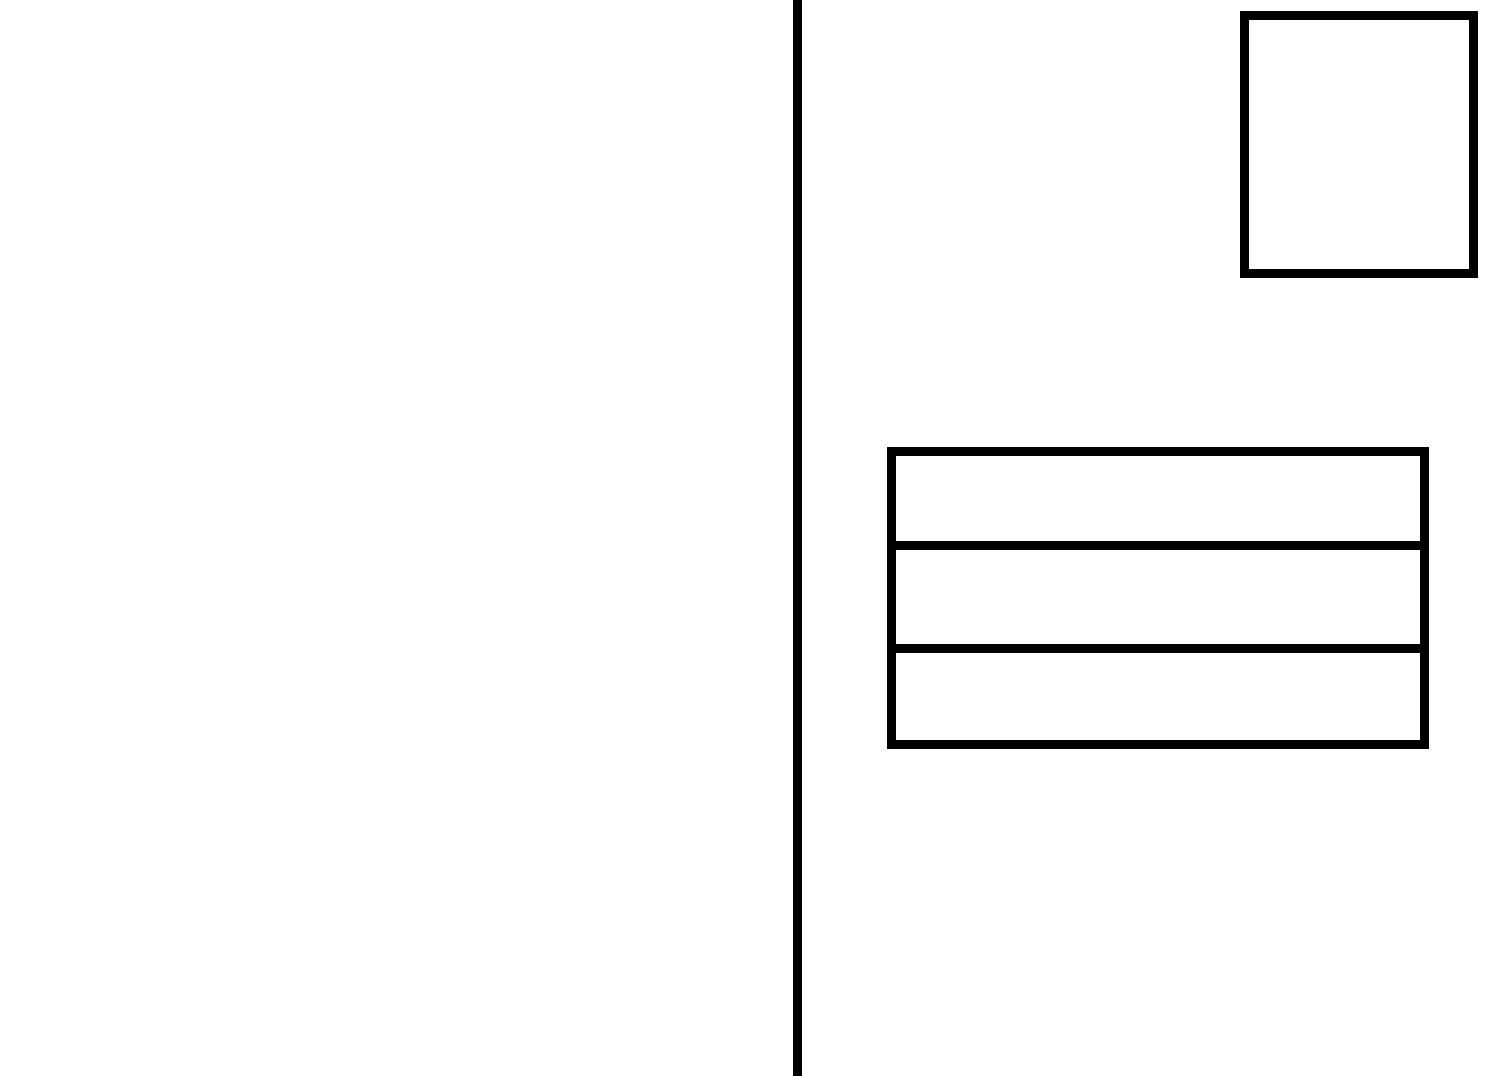
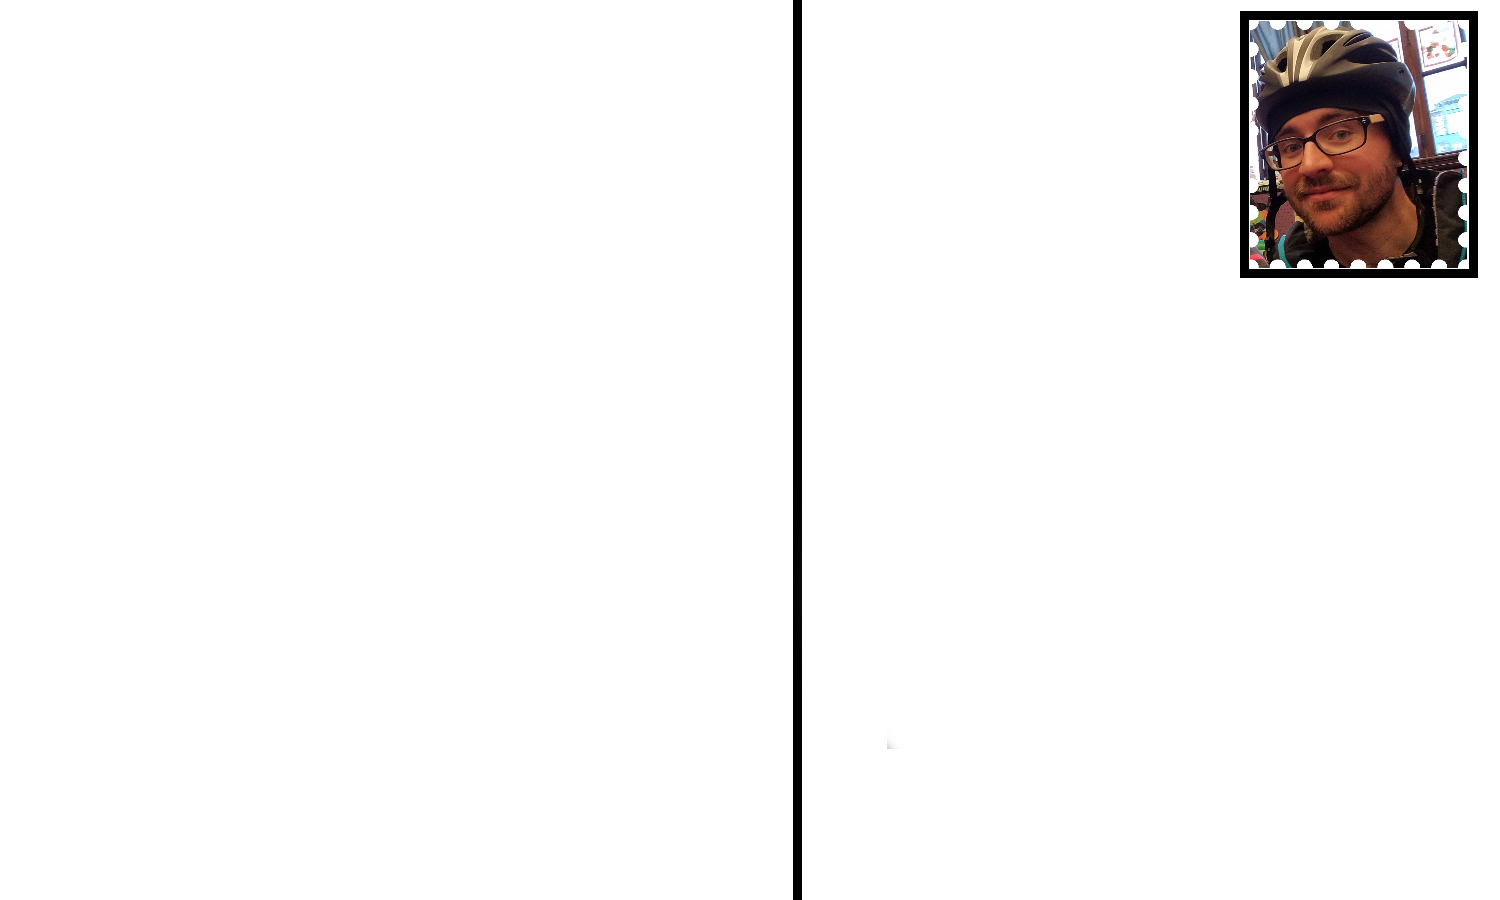
still working on the css

Changed region(s): [[0.5827, 0.4044, 0.9507, 0.7156], [0.828, 0.0, 1.0, 0.3111]]

diff --git a/styles.css b/styles.css
@@ -16,21 +16,23 @@ body {
 #backgroundborder {
     grid-column: 1 / 6;
     grid-row: 1 / 13;
-    flex: 1;
+    flex: 1 1;
+    justify-self: center;
 }
 
 #backgroundborder img {
     max-width: 100%;
-    max-height: 100%;
-    object-fit: cover;
+    max-height: 200vh;
     display: flex;
 }
 
-#contentcontainer {
+#mainbackground {
     background-color: #388fe2;
-    min-width: 600px;
+    min-width: 800px;
+    max-height: 200vh;
     grid-column: 2 / 5;
     grid-row: 1 / 13;
+    justify-self: center;
     z-index: -1;
 }
 
@@ -38,30 +40,63 @@ header {
     grid-column: 2 / 5;
     grid-row: 2 / 5;
     display: grid;
+    max-width:800px;
+    grid-template-columns: 1fr 1fr 1fr;
+    grid-template-rows: 1fr 1fr 1fr;
+    justify-self: center;
 }
 
 #headshot {
-    grid-column: 5 / 5;
-    grid-row: 2 / 2;
+    grid-column: 3 / 4;
+    grid-row: 1 / 2;
     max-width: 150px;
     display: flex;
+    z-index: 3;
+    justify-self: right;
+    opacity: .8;
 }
 
 header .pcmainimg {
-    grid-column: 2 / 5;
-    grid-row: 2 / 5;
-    max-width: 100%;
+    grid-column: 1 / 4;
+    grid-row: 1 / 4;
     object-fit: cover;
     display: flex;
+    justify-self: center;
+}
+
+header .pcbackground {
+    grid-column: 1 / 4;
+    grid-row: 1 / 4;
+    object-fit: cover;
+    display: flex;
+    z-index: 3;
+    opacity: .3;
+    justify-self: center;
+}
+
+header .postcard {
+    grid-column: 1 / 4;
+    grid-row: 1 / 4;
+    object-fit: cover;
+    display: flex;
+    z-index: 2;
+    opacity: .9;
+    justify-self: center;
+}
+
+header h1 {
+    grid-column: 1 / 3;
+    grid-row: 1 / 2;
+    z-index: 5;
+    margin: .5rem;
+    font-size: 1.75rem;
 }
 
 img {
     display: none;
+    max-width: 800px;
 }
 
-h1 {
-  /*this is the website title*/
-}
 
 nav {
   /*all nav items the same size/font*/

diff --git a/index.html b/index.html
@@ -12,17 +12,17 @@
 
   <body>
     <div id="gridcontainer">
-    <div id="backgroundborder">
-      <img src="assets/externalborder.png">
-    </div>
-    <div id="contentcontainer">
-    <header>
-      <h1>Sincerely,</h1>
+      <div id="backgroundborder">
+        <img id="externalborder" src="assets/externalborder.png">
+      </div>
+      <div id="mainbackground"></div>
+      <header>
+      <h1>Sincerely, C.Watley</h1>
       <nav>
         <div id="projects">Projects</div>
         <div id="contacts">Contact</div>
       </nav>
-      <img id="headshot" src="assets/headshot.png" alt="Personal Headshot">
+      <!--<img id="headshot" src="assets/headshot.png" alt="Personal Headshot">!-->
       <img class="pcbackground" src="assets/postcardBackground.png">
       <img class="pcmainimg" src="assets/6-26-11 032-PANO.jpg" alt="Split, Croatia">
       <img class="postcard" src="assets/Postcard overlay.png" alt="Postcard overlay">
@@ -73,7 +73,6 @@
       </div>
       <div id="contactbarbottomimg"><img id="postbox" src="assets/9-2-10 023.jpg" alt="Picture of cardboard box"></div>
     </section>
-    </div>
     </div>
   </body>
 </html>
